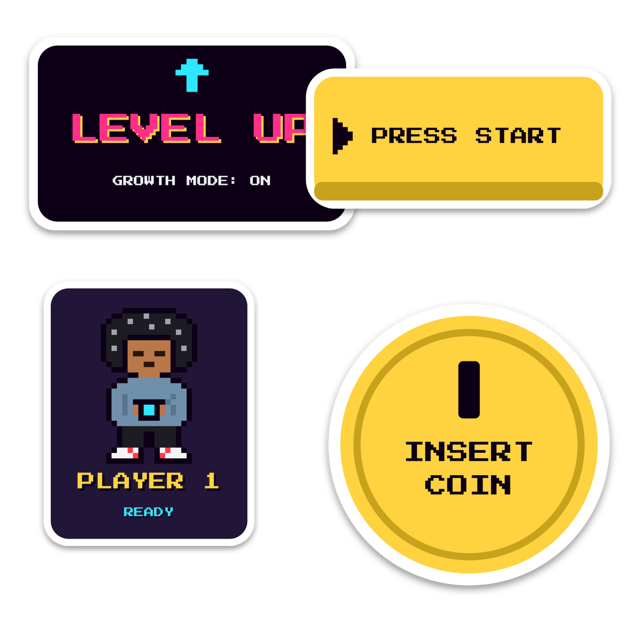
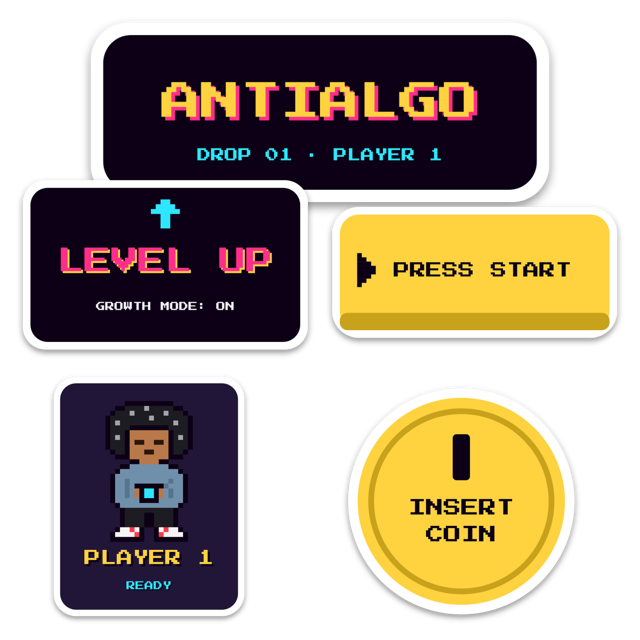
Update the private preview with ANTIALGO merch
Claude-Session: https://claude.ai/code/session_01AXkgVQw8xKWPShripWybge

diff --git a/preview-2027/shop.html b/preview-2027/shop.html
@@ -6,11 +6,11 @@
 <meta http-equiv="Content-Security-Policy" content="default-src 'self'; script-src 'self'; style-src 'self' 'unsafe-inline'; img-src 'self' data:; font-src 'self'; connect-src 'self'; media-src 'self'; object-src 'none'; base-uri 'self'; form-action 'self'; upgrade-insecure-requests">
 <meta name="referrer" content="strict-origin-when-cross-origin">
 <meta name="viewport" content="width=device-width, initial-scale=1">
-<title>The Prize Counter · Clinton Strickland</title>
-<meta name="description" content="Drop 01: Player 1. Arcade-style hoodies, tees, stickers and enamel pins from Clinton Strickland, printed to order.">
+<title>The Prize Counter · ANTIALGO</title>
+<meta name="description" content="ANTIALGO Drop 01: Player 1. Arcade-style hoodies, tees, stickers and enamel pins from Clinton Strickland, printed to order.">
 <meta name="theme-color" content="#0B0614">
 <meta property="og:type" content="website">
-<meta property="og:title" content="The Prize Counter · Drop 01: Player 1">
+<meta property="og:title" content="ANTIALGO · Drop 01: Player 1">
 <meta property="og:description" content="Arcade-style hoodies, tees, stickers and enamel pins, printed to order.">
 <meta property="og:url" content="https://clintonstrickland.com/shop.html">
 <meta property="og:image" content="https://clintonstrickland.com/merch/press-start-hoodie-back.png">
@@ -43,15 +43,15 @@
 
   <header>
     <h1>THE PRIZE COUNTER</h1>
-    <p class="role">Drop 01: Player 1. Arcade gear for people who press start.</p>
+    <p class="role">ANTIALGO Drop 01: Player 1. Arcade gear for people who press start.</p>
     <p class="meta" data-el="status">Store opens January 1, 2027 · printed to order and shipped to you</p>
   </header>
 
   <section aria-labelledby="h-drop">
-    <h2 id="h-drop">DROP 01 · PLAYER 1</h2>
+    <h2 id="h-drop">ANTIALGO · DROP 01 · PLAYER 1</h2>
     <ul class="prizes">
       <li class="prize" data-product="hoodie">
-        <div class="img"><img src="merch/press-start-hoodie-back.png" width="640" height="640" alt="Faded whale-blue hoodie, back view: PLAYER 1 in yellow pixel letters over a pixel-art figure with a gray-flecked afro holding a phone, and INSERT COIN TO CONTINUE below." loading="lazy"></div>
+        <div class="img"><img src="merch/press-start-hoodie-back.png" width="640" height="640" alt="Faded whale-blue hoodie, back view: PLAYER 1 in yellow pixel letters over a pixel-art figure with a gray-flecked afro holding a phone, then INSERT COIN TO CONTINUE and ANTIALGO below." loading="lazy"></div>
         <div class="info">
           <span class="tickets" style="color:var(--cyan)">GRAND PRIZE</span>
           <h3>Press Start Hoodie</h3>
@@ -60,7 +60,7 @@
         </div>
       </li>
       <li class="prize" data-product="level-up">
-        <div class="img"><img src="merch/level-up-tee.png" width="640" height="640" alt="Black t-shirt with LEVEL UP in big pink pixel letters with a yellow shadow, a cyan up arrow above, and GROWTH MODE: ON below." loading="lazy"></div>
+        <div class="img"><img src="merch/level-up-tee.png" width="640" height="640" alt="Black t-shirt with LEVEL UP in big pink pixel letters with a yellow shadow, a cyan up arrow above, and GROWTH MODE: ON and ANTIALGO below." loading="lazy"></div>
         <div class="info">
           <span class="tickets" style="color:var(--magenta)">TOP SHELF</span>
           <h3>Level Up Tee</h3>
@@ -69,7 +69,7 @@
         </div>
       </li>
       <li class="prize" data-product="player-1">
-        <div class="img"><img src="merch/player-1-ready-tee.png" width="640" height="640" alt="Off-white t-shirt with PLAYER 1 above a pixel-art figure in a blue hoodie and READY below, in dark pixel letters with a pink shadow." loading="lazy"></div>
+        <div class="img"><img src="merch/player-1-ready-tee.png" width="640" height="640" alt="Off-white t-shirt with PLAYER 1 above a pixel-art figure in a blue hoodie and READY below in dark pixel letters with a pink shadow, then ANTIALGO." loading="lazy"></div>
         <div class="info">
           <span class="tickets" style="color:var(--yellow)">TOP SHELF</span>
           <h3>Player 1 Ready Tee</h3>
@@ -78,11 +78,11 @@
         </div>
       </li>
       <li class="prize" data-product="stickers">
-        <div class="img"><img src="merch/sticker-pack.png" width="640" height="640" alt="Four die-cut stickers: LEVEL UP, a yellow PRESS START button, the pixel Player 1 figure, and a gold INSERT COIN coin." loading="lazy"></div>
+        <div class="img"><img src="merch/sticker-pack.png" width="640" height="640" alt="Five die-cut stickers: an ANTIALGO wordmark, LEVEL UP, a yellow PRESS START button, the pixel Player 1 figure, and a gold INSERT COIN coin." loading="lazy"></div>
         <div class="info">
           <span class="tickets" style="color:var(--green)">50 TICKETS</span>
           <h3>Sticker Pack</h3>
-          <p>Four die-cut vinyl stickers: Level Up, Press Start, Player 1 and Insert Coin.</p>
+          <p>Five die-cut vinyl stickers: ANTIALGO, Level Up, Press Start, Player 1 and Insert Coin.</p>
           <div class="row"><span class="price">$12</span><span class="soon" data-el="buy">Opens January 1</span></div>
         </div>
       </li>

diff --git a/preview-2027/app.js b/preview-2027/app.js
@@ -489,7 +489,7 @@
   }
   function prizesHTML() {
     var items = [['press-start-hoodie-back', 'Press Start Hoodie', '$65'], ['level-up-tee', 'Level Up Tee', '$34'], ['player-1-ready-tee', 'Player 1 Ready Tee', '$34'], ['pin-player-1-head', 'Player 1 Enamel Pin', '$15']];
-    var h = holoWrap('08', 'PRIZE COUNTER', '#39FF88', 'DROP 01: PLAYER 1', 'Arcade gear for people who press start. Hoodies, tees, stickers and enamel pins, printed to order. Store opens January 1, 2027.') +
+    var h = holoWrap('08', 'PRIZE COUNTER', '#39FF88', 'ANTIALGO DROP 01', 'Player 1 gear for people who press start. Hoodies, tees, stickers and enamel pins, printed to order. Store opens January 1, 2027.') +
       '<ul style="list-style:none;margin:0;padding:0;display:grid;grid-template-columns:1fr 1fr;gap:10px">';
     items.forEach(function (it) {
       h += '<li style="display:flex;flex-direction:column;gap:6px;padding:8px;border-radius:10px;background:#16102A;border:2px solid #2A1F4A"><img src="merch/' + it[0] + '.png" alt="" width="640" height="640" style="width:100%;height:auto;border-radius:6px;background:#211538">' +

diff --git a/preview-2027/index.html b/preview-2027/index.html
@@ -39,6 +39,6 @@
     <p><a class="btn primary" href="company.html">See services and prices</a></p>
   </div></div>
 </noscript>
-<script src="app.js?v=12" defer></script>
+<script src="app.js?v=13" defer></script>
 </body>
 </html>

diff --git a/preview-2027/coming-soon.html b/preview-2027/coming-soon.html
@@ -16,6 +16,6 @@
 <main id="viewport" aria-label="Under construction">
   <div id="stage" class="stage"></div>
 </main>
-<script src="app.js?v=12" defer></script>
+<script src="app.js?v=13" defer></script>
 </body>
 </html>
